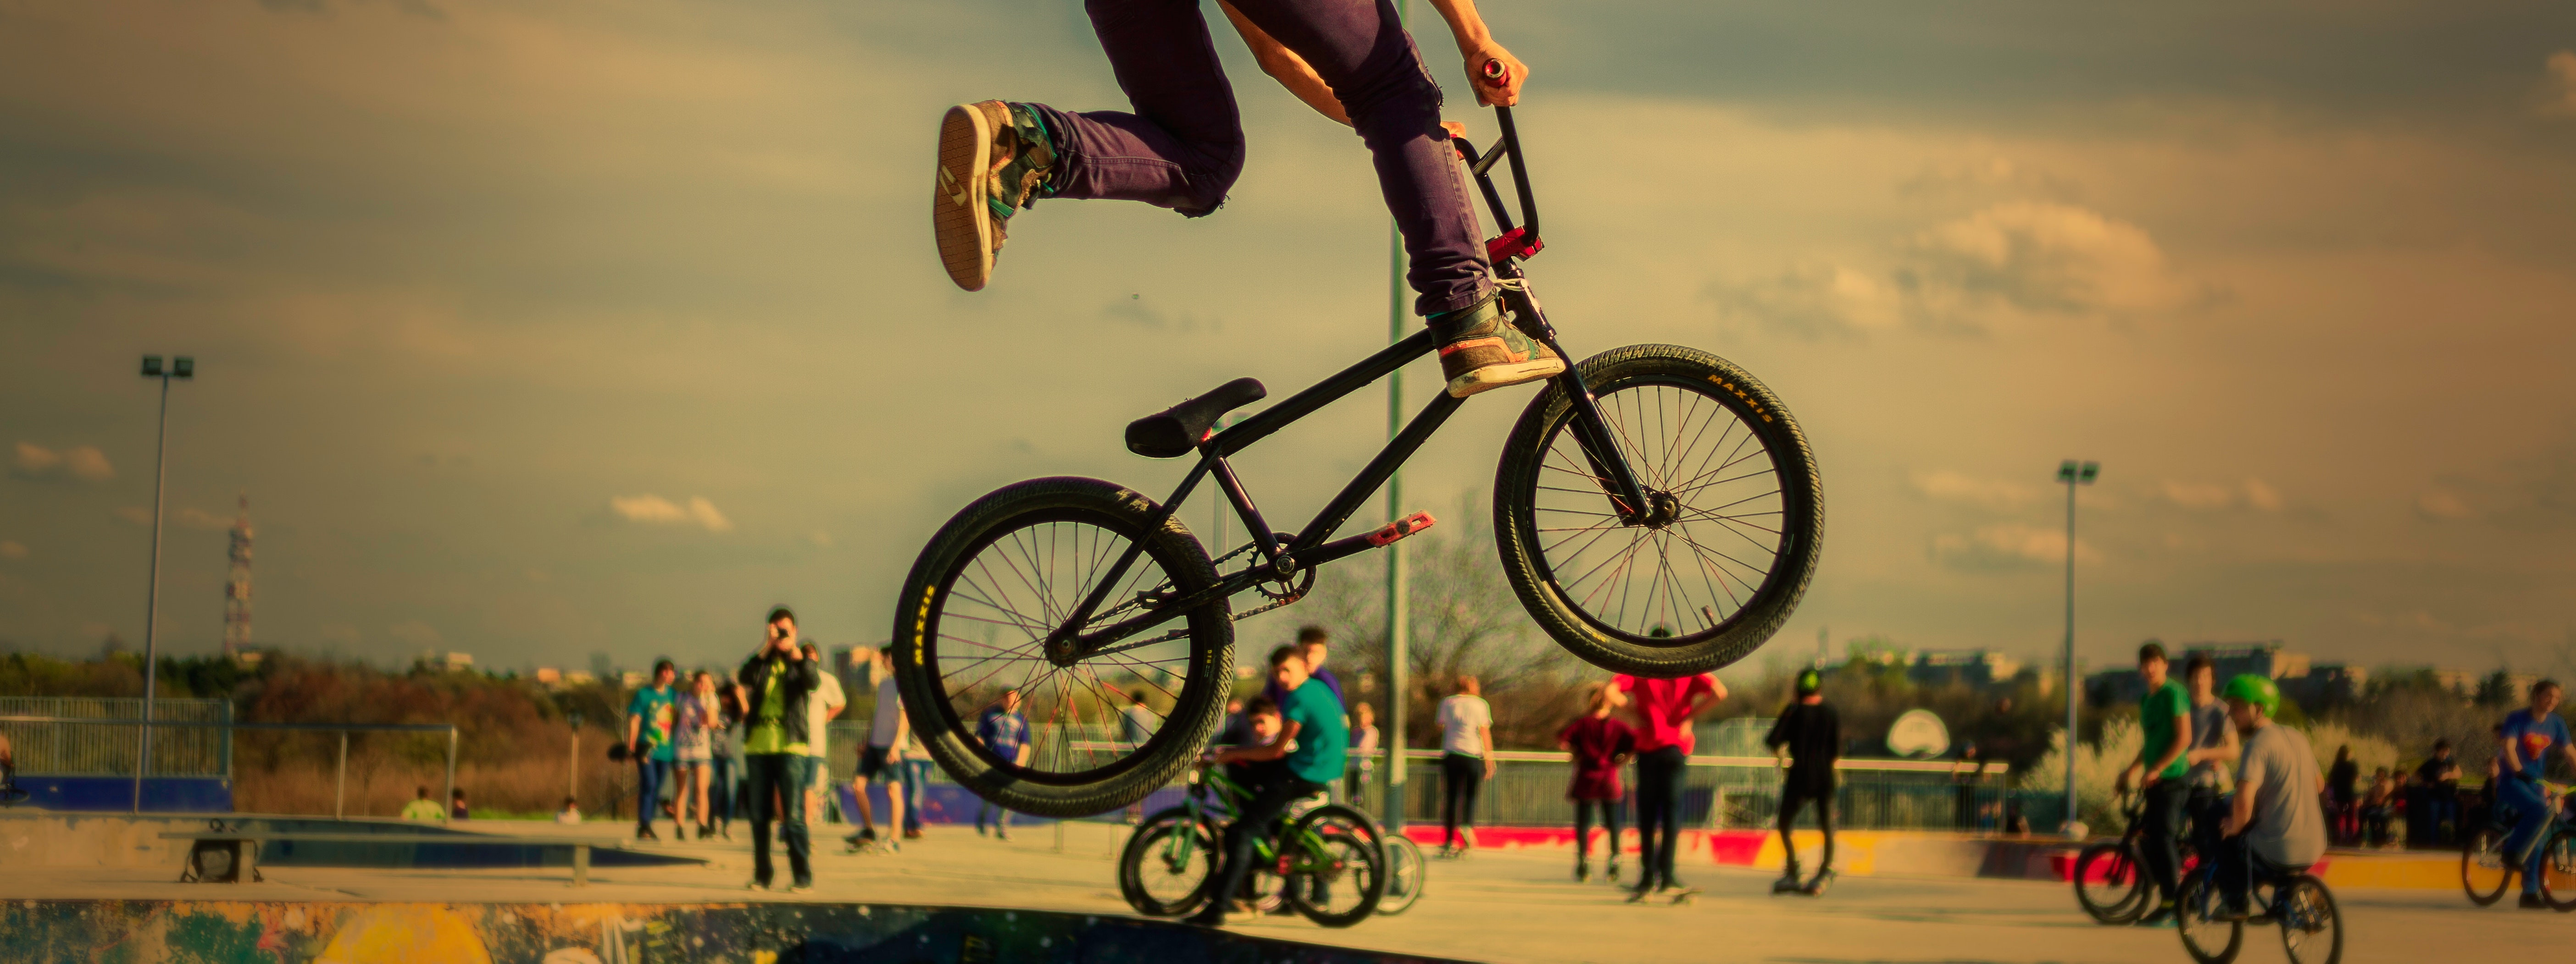
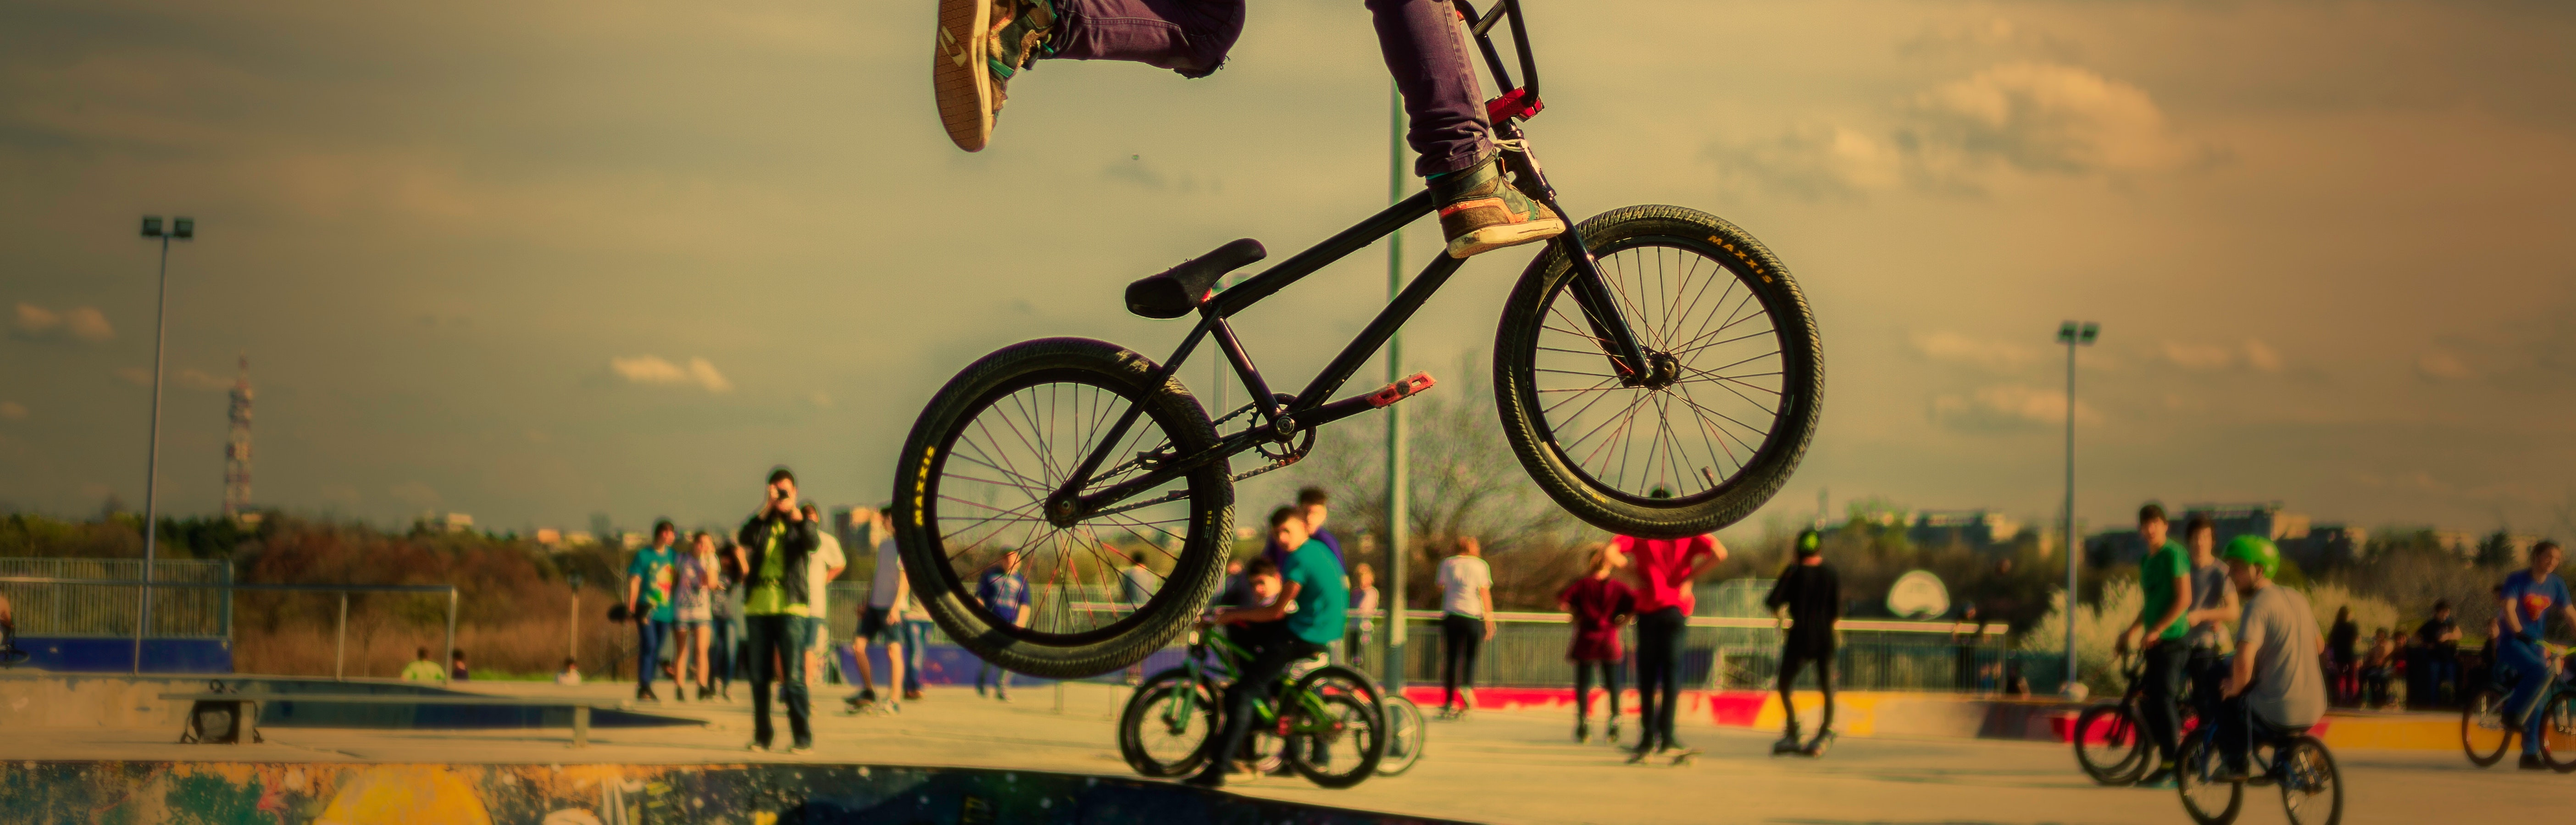
implemented jquery

diff --git a/cit230/TheMountainSpoke/js/parallax.js b/cit230/TheMountainSpoke/js/parallax.js
@@ -1,19 +1,67 @@
-$(function(){
-    var velocity = 0.5;
-    function update(){ 
-        var pos = $(window).scrollTop(); 
-        $('header').each(function() { 
-            var $element = $(this);
-            if ($element.height() < 419){
-                var height = $element.height()-100;
-                $(this).css('backgroundPosition', '100% ' + Math.round((height - pos) * velocity) +  'px');
-            }
-            // subtract some from the height b/c of the padding
-
-        }); 
-    };
-
-    $(window).bind('scroll', update);
-})
+var velocity = 0.5;
+$(window).bind('scroll', update);
+function update(){ 
+    var pos = $(window).scrollTop(); 
+    $('header').each(function() { 
+        var $element = $(this);
+        // subtract some from the height b/c of the padding
+        var height = $element.height()-100;
+        $(this).css('backgroundPosition', '50% ' + Math.round((height - pos) * velocity) +  'px');
+    }); 
+};
 
 
+
+
+
+//$(function(){
+//    var velocity = 0.5;
+//    function update(){
+//        var pos = $(window).scrollTop();
+//        $('header').each(function(){
+//            var $element = $(this);
+//            var height = $element.height()-18;
+//            $(this).css('backgroundPosition', '50%' + Math.round((height - pos) * velocity) + 'px');
+//        });
+//        
+//        $(window).bind('scroll', update);
+//    }
+//
+
+
+
+
+
+//});
+
+//$(function(){
+//    var velocity = 0.5;
+//    function update(){ 
+//        var pos = $(window).scrollTop(); 
+//        $('header').each(function() { 
+//            var $element = $(this);
+//            if ($element.height() < 419){
+//                var height = $element.height()-100;
+//                $(this).css('backgroundPosition', '100% ' + Math.round((height - pos) * velocity) +  'px');
+//            }
+//            // subtract some from the height b/c of the padding
+//
+//        }); 
+//    };
+//
+//    $(window).bind('scroll', update);
+//})
+//
+//
+//function scrollBanner() {
+//  var scrollPos;
+//  var headerText = document.querySelector('header');
+//  scrollPos = window.scrollY;
+//
+//  if (scrollPos <= 600) {
+//      headerText.style.transform =  "translateY(" + (-scrollPos/3) +"px" + ")";
+//      headerText.style.opacity = 1 - (scrollPos/600);
+//  }
+//}
+//
+//window.addEventListener('scroll', scrollBanner);

diff --git a/cit230/TheMountainSpoke/css/mediumView.css b/cit230/TheMountainSpoke/css/mediumView.css
@@ -2,9 +2,6 @@
     #hamburger{
         display: none;
     }
-    header{
-
-    }
     header h1{
         font-size: 3rem;
     }
@@ -31,9 +28,12 @@
     #gridContainer h2{
         font-weight: 100;
     }
+    #gridContainer section:nth-child(2){
+        border-left: 1px solid #3F3F3F;
+    }
+    
     #gridContainer section{
         border-bottom: 0;
-        border-left: 1px solid #3F3F3F;
     }
     #gridContainer section a > img{
         margin-bottom: 10px;
@@ -41,6 +41,8 @@
         margin-left: 10px;
     }
     #copyright{
+        border-top: 1px solid #3F3F3F;
+        margin-top:25px;
         grid-column: 1/3;
     }
 }

diff --git a/cit230/TheMountainSpoke/css/main.css b/cit230/TheMountainSpoke/css/main.css
@@ -14,13 +14,10 @@ header{
     line-height: 0;
     max-width:1600px;
     max-height: 419px;
-    width:100%;
     padding-top: 15%;
     background-image: url(../img/slideImg/4.jpg);
-    background-attachment: fixed;
-    background-size: contain;
+    background-size: cover;
     background-repeat: no-repeat;
-    
 }
 
 header h1{
@@ -40,8 +37,8 @@ height: 100%;
 
 nav{
     background-color: #f4bf42;
-    padding-top: 5px;
-    padding-bottom: 0.02px;
+    padding-top: 7px;
+    padding-bottom: 0.03px;
 
 }
 #hamburger{
@@ -63,6 +60,7 @@ nav{
 }
 
 nav ul{
+    
     display: none;
     list-style-type: none;
     margin:0;

diff --git a/cit230/TheMountainSpoke/index.html b/cit230/TheMountainSpoke/index.html
@@ -37,7 +37,7 @@
         </header>
 
         <nav>
-            <button id="hamburger" onclick="toggleNavMenu()">&#9776;</button>
+            <button id="hamburger">&#9776;</button>
             <ul id="navUl">
                 <li><a href="#" class="actualPage">Home</a></li>
                 <li><a href="#">Tour</a></li>
@@ -86,6 +86,7 @@
                 </section>
             </div>
         </footer>
+<!--        <script src="js/parallax.js"></script>-->
         <script src="js/hamburger.js"></script>
     </body>
 </html>

diff --git a/cit230/TheMountainSpoke/js/hamburger.js b/cit230/TheMountainSpoke/js/hamburger.js
@@ -1,4 +1,6 @@
-function toggleNavMenu(){
-    document.getElementById("navUl").classList.toggle("hamburgerActived");
-   
-}
+$(function(){
+
+    $("#hamburger").click(function(){
+            $("#navUl").toggleClass("hamburgerActived");
+    });
+});
